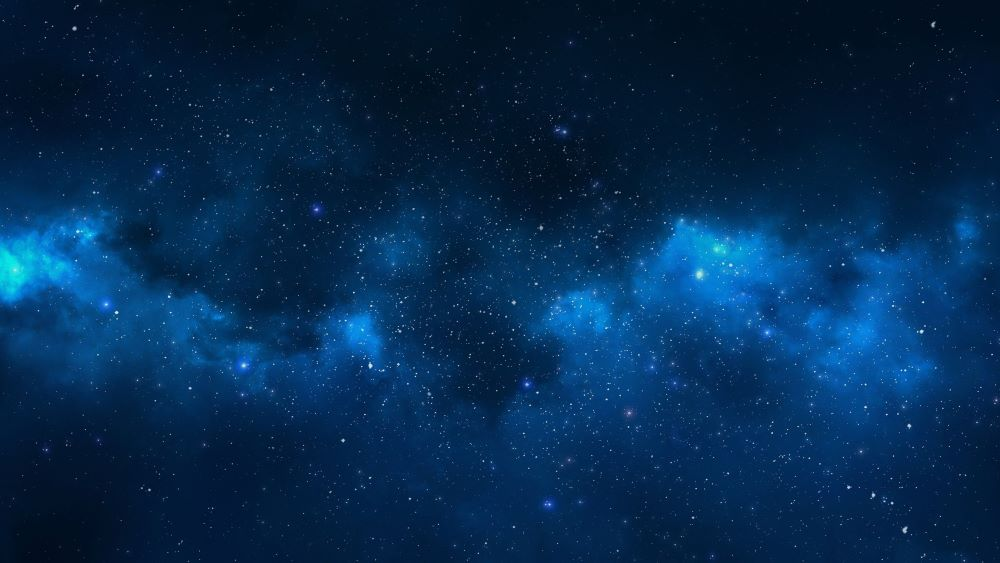
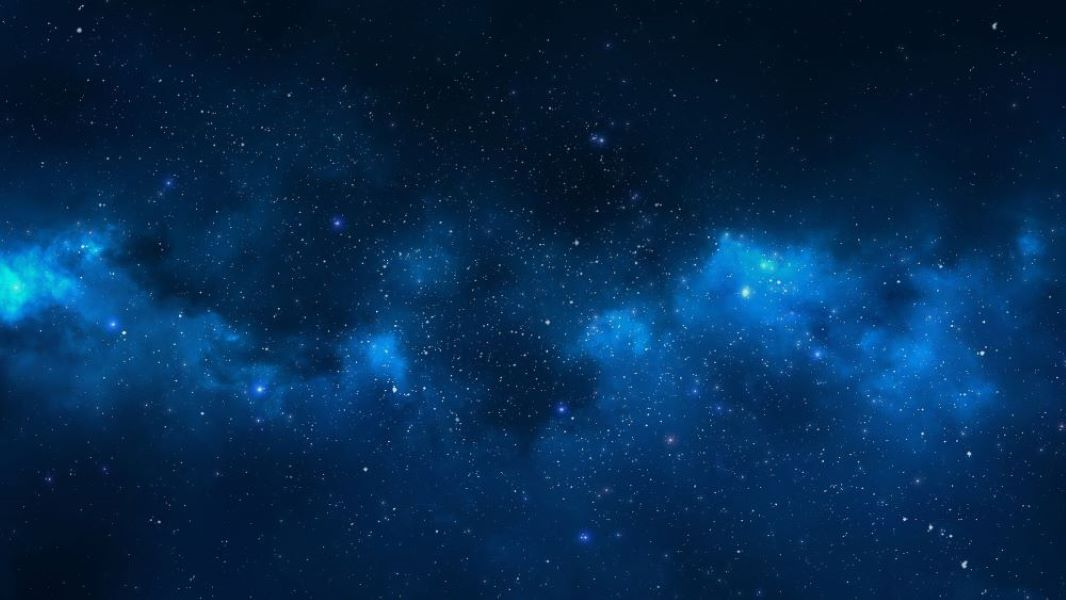
Implementados: Trilha sonora e fundo

diff --git a/index.py b/index.py
@@ -2,16 +2,18 @@ import pygame
 
 pygame.init()
 
-tamanho = (800,600)
+tamanho = (600, 600)
 display = pygame.display.set_mode(tamanho)
-
+pygame.mixer.music.load("Space.mp3")
+pygame.mixer.music.play(-1)
 running = True
-
+fundo = pygame.image.load("bg.jpg")
 while running:
     for event in pygame.event.get():
         if event.type == pygame.QUIT:
             running = False
-    
+
+    display.blit(fundo, (0, 0))
     pygame.display.update()
 
 pygame.quit()
